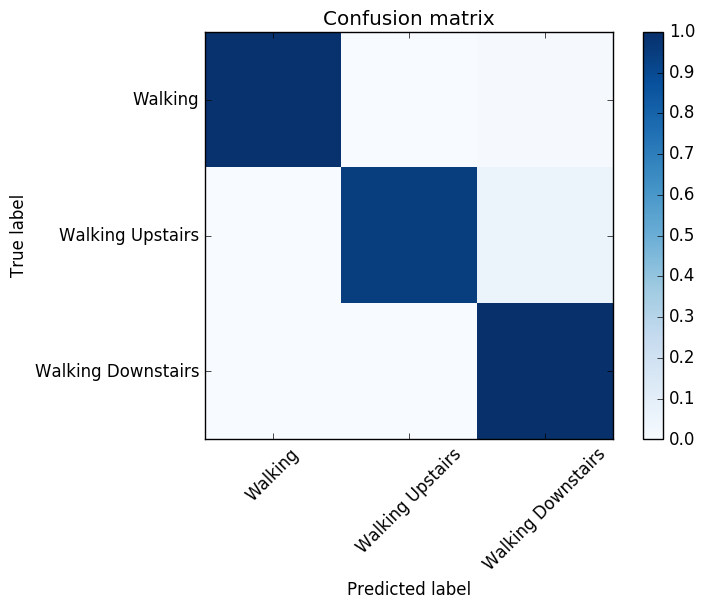
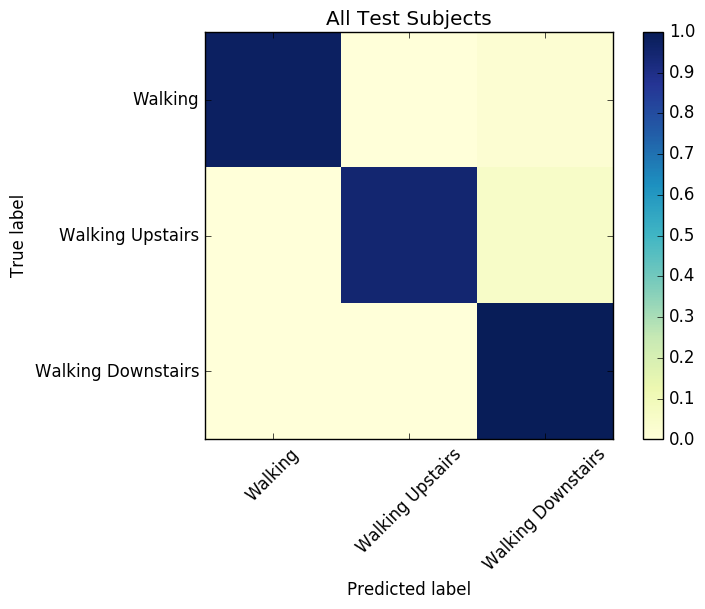
Add a confusion matrix for subject 10 only. Change colors on confusion matrix

Changed region(s): [[0.2809, 0.0, 0.8738, 0.7488], [0.905, 0.2808, 0.9674, 0.7176], [0.905, 0.0936, 0.9362, 0.1872]]

diff --git a/src/activity_convo.py b/src/activity_convo.py
@@ -58,23 +58,39 @@ print('Test score:', score[0])
 print('Test accuracy:', score[1])
 
 predicted_classes = np.expand_dims(np.argmax(pred, axis=1) + 1, axis=1)
+
+incorrect_prediction = (predicted_classes != activity_test)
+
+print(subject_test[incorrect_prediction])
+
+subject_10 = subject_test == 10
+
+predicted_classes_10 = predicted_classes[subject_10]
+activity_test_10 = activity_test[subject_10]
+
 cm = confusion_matrix(activity_test, predicted_classes)
+cm_10 = confusion_matrix(activity_test_10, predicted_classes_10)
 
-
-def plot_confusion_matrix(cm, title='Confusion matrix', cmap=plt.cm.Blues):
+def plot_confusion_matrix(cm, filename, title, cmap=plt.cm.YlGnBu):
     plt.imshow(cm, interpolation='nearest', cmap=cmap)
-    plt.title(title)
     plt.colorbar()
+    plt.title(title)
     tick_marks = np.arange(3)
     plt.xticks(tick_marks, ['Walking', 'Walking Upstairs', 'Walking Downstairs'], rotation=45)
     plt.yticks(tick_marks, ['Walking', 'Walking Upstairs', 'Walking Downstairs'])
     plt.tight_layout()
     plt.ylabel('True label')
     plt.xlabel('Predicted label')
-    plt.savefig('images/activity_prediction_confusion_matrix.png', bbox_inches='tight')
+    plt.savefig('images/{}'.format(filename), bbox_inches='tight')
+    plt.clf()
 
 cm_normalized = cm.astype('float') / cm.sum(axis=1)[:, np.newaxis]
+cm_10_normalized = cm_10.astype('float') / cm_10.sum(axis=1)[:, np.newaxis]
+
 
 print(cm)
 
-plot_confusion_matrix(cm_normalized)
+plot_confusion_matrix(cm_normalized, 'activity_prediction_confusion_matrix.png', "All Test Subjects")
+plot_confusion_matrix(cm_10_normalized, 'activity_prediction_confusion_matrix_10.png', "Subject 10 Only")
+
+

diff --git a/src/data_reader.py b/src/data_reader.py
@@ -2,6 +2,7 @@ from __future__ import division, print_function, absolute_import
 from settings import PROJECT_HOME
 import numpy as np
 import pandas as pd
+from sklearn.preprocessing import OneHotEncoder
 
 
 def get_data(data_set='train'):
@@ -84,17 +85,9 @@ def get_timeseries_data(data_set='train'):
 
 
 if __name__ == '__main__':
-    X, subjects, actions, _ = get_timeseries_data('train')
+    X, subjects, activities, _ = get_timeseries_data('test')
 
-    # Test the data is scaled.
-    for i in range(9):
-        series = X[:, i, :, 0]
-        print(np.max(series))
+    encoder = OneHotEncoder()
+    activity_train_one_hot = encoder.fit_transform(activities).todense()
 
-    print(X.shape)
-
-    print(np.unique(actions, return_counts=True))
-
-    print(np.unique(subjects))
-
-    print(X)
+    print(np.sum(activity_train_one_hot, axis=0))
